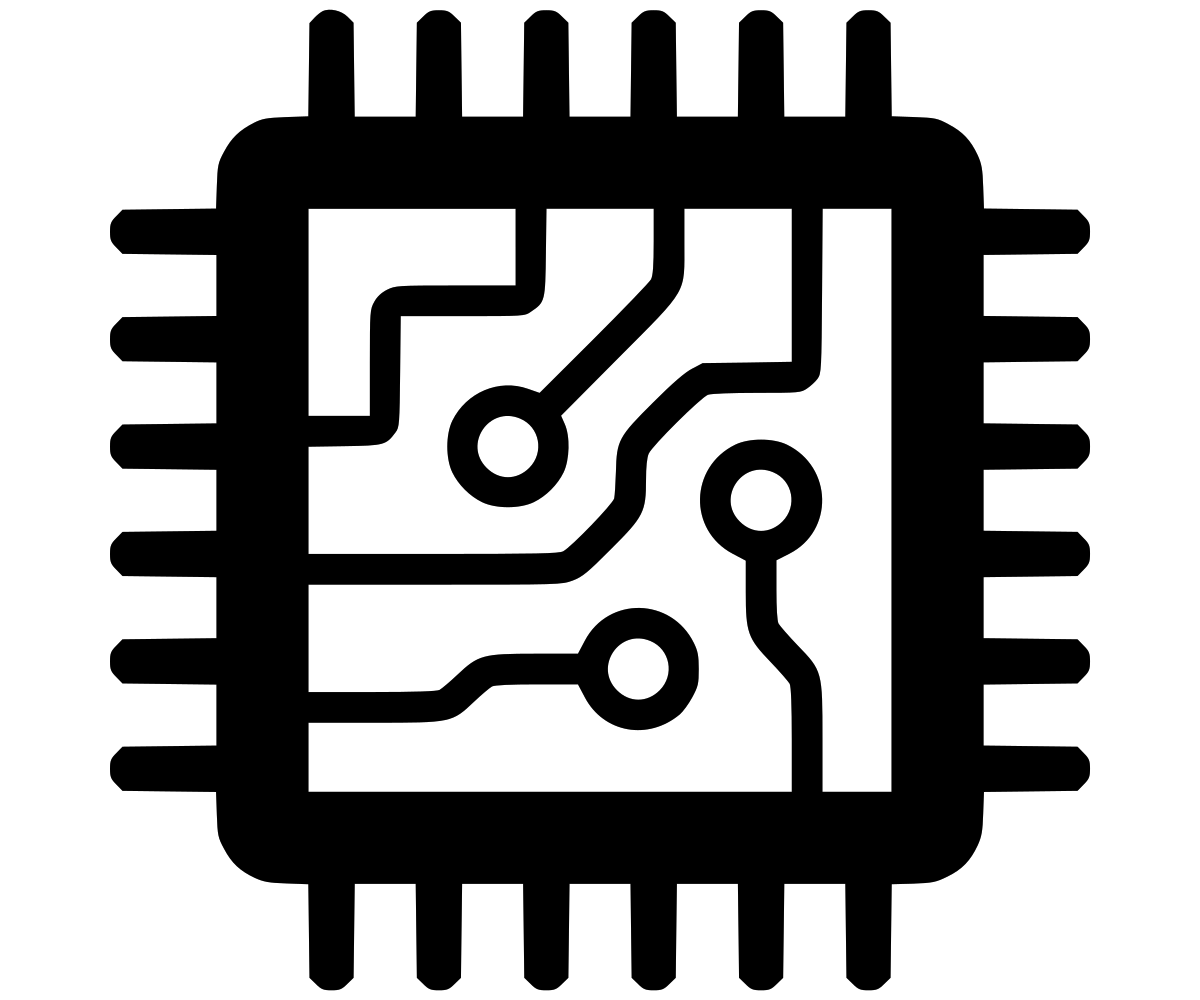
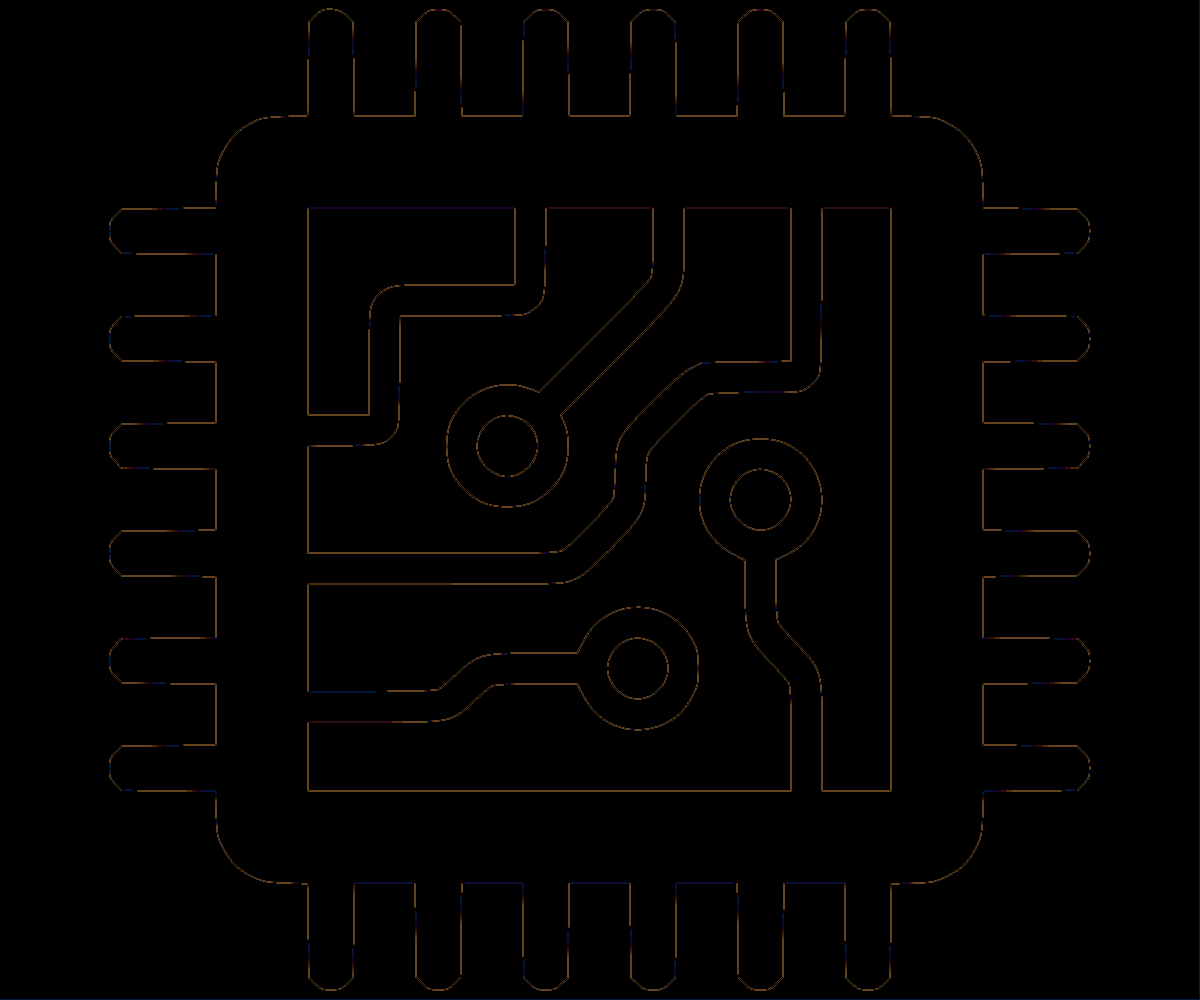
aupdtes

diff --git a/app/views/Index.js b/app/views/Index.js
@@ -12,20 +12,20 @@ const Index = () => (
 
           <div className="horizontalImageContainer">
               <div className="symbol">
-                <img src={`${BASE_PATH}/images/cp-chip.png`} alt="" />
+                <img src={`${BASE_PATH}/images/chip-outline.png`} alt="" />
               </div>
               <div className="symbol">
-                <img src={`${BASE_PATH}/images/apple-logo.png`} alt="" />
+                <img src={`${BASE_PATH}/images/apple-outline.png`} alt="" />
               </div>
               <div className="symbol">
-                <img src={`${BASE_PATH}/images/android-logo.png`} alt="" />
+                <img src={`${BASE_PATH}/images/android-outline.png`} alt="" />
               </div>
               <div className="symbol">
-                <img src={`${BASE_PATH}/images/bluetooth-logo.png`} alt="" />
+                <img src={`${BASE_PATH}/images/bluetooth-outline.png`} alt="" />
               </div>
           </div>
 
-          <p style={{textAlign:"center"}}>
+          <p style={{textAlign:"left"}}>
             <br></br><br></br>
             onceLabs is focused on building quality user experiences between 
             people and wireless products via mobile and embedded software development. 
@@ -37,40 +37,59 @@ const Index = () => (
         </div>
       </header>
       <header>
+        <div className="row">
+          <div className="leftImage">
+            <img src={`${BASE_PATH}/images/mobile-dev-ble.svg`} alt="" />
+          </div>
+          <div className="rightText">
           <div className="title">
-          <h3><Link to="/">Mobile Development</Link></h3>
-          <br></br>
-          <p>We offer full mobile application development for Android and iOS. We also offer product-specific 
-            Bluetooth Low Energy API development and handoff if you already have in-house mobile development 
-            resources but not the expertise required to integrate BLE. In the latter case, we build robust 
-            APIs for iOS and Android tailored to your specific use case.</p>
-            <div className="illustration">
-              <img src={`${BASE_PATH}/images/mobile-dev-ble.svg`} alt="" />
-            </div>
+            <h3><Link to="/">Mobile Development</Link></h3>
+            <br></br>
+            <p>We offer full mobile application development for Android and iOS. We also offer product-specific 
+                Bluetooth Low Energy API development and handoff if you already have in-house mobile development 
+                resources but not the expertise required to integrate BLE. In the latter case, we build robust 
+                APIs for iOS and Android tailored to your specific use case.</p>
+          </div>
+          </div>
         </div>
       </header>
       <header>
-        <div className="title">
-          <h3><Link to="/">Embedded Development</Link></h3>
-          <p>One of our greatest strengths is our extensive background in developing connectivity applications 
+        <div className="row">
+          <div className="leftText">
+          <div className="title">
+            <h3><Link to="/">Embedded Development</Link></h3>
+            <br></br>
+            <p>One of our greatest strengths is our extensive background in developing connectivity applications 
             for both mobile and embedded platforms in parallel, which gives us better design insight than companies 
             who focus on mobile exclusively.</p>
-            <div className="illustration">
-              <img src={`${BASE_PATH}/images/firmware.svg`} alt="" />
-            </div>
+          </div>
+          </div>
+          <div className="rightImage">
+            <img src={`${BASE_PATH}/images/firmware.svg`} alt="" />
+          </div>
         </div>
       </header>
       <header>
-        <div className="title">
-          <h3><Link to="/">Training</Link></h3>
-          <p>Our experts are available for on-site training to get your team up to speed on both mobile, 
-            and embedded development focused on Bluetooth Low Energy.</p>
-            <div className="illustration">
-              <img src={`${BASE_PATH}/images/teaching.svg`} alt="" />
-            </div>
+        <div className="row">
+          <div className="leftImage">
+            <img src={`${BASE_PATH}/images/teaching.svg`} alt="" />
+          </div>
+          <div className="rightText">
+          <div className="title">
+            <h3><Link to="/">Training</Link></h3>
+            <br></br>
+            <p>Our experts are available for on-site training to get your team up to speed on both mobile, 
+            and embedded development focused on Bluetooth Low Energy.
+            <br></br>
+            We have multiple training options available based on experience.
+            <br></br>
+            We have multiple training options available based on experience.
+            </p>
+          </div>
+          </div>
         </div>
       </header>
-      <p> Welcome to my website. Please feel free to read more <Link to="/about">about me</Link>,
+      <p> Welcome to our website. Please feel free to read more <Link to="/about">about us</Link>,
         or you can check out my {' '}
         <Link to="/resume">resume</Link>, {' '}
         <Link to="/projects">projects</Link>, {' '}

diff --git a/app/static/css/components/_post.scss b/app/static/css/components/_post.scss
@@ -31,6 +31,10 @@
 					font-size: 1.5em;
 				}
 
+				p {
+					//text-transform: unset;
+				}
+
 				> :last-child {
 					margin-bottom: 0;
 				}
@@ -88,7 +92,7 @@
 			.illustrationRight {
 				border-bottom: 0;
 				display: block;
-				margin: (_size(element-margin) * 0.25) (_size(element-margin) * 0.25) 0 (_size(element-margin) * 0.25);
+				margin: (_size(element-margin) * 0.25) (_size(element-margin) * 0.25) (_size(element-margin) * 0.25) (_size(element-margin) * 0.25);
 				overflow: hidden;
 				position: relative;
 	
@@ -101,6 +105,62 @@
 				}
 			}
 
+			.leftImage {
+				float: left;
+				width: 35%;
+				padding: 5px;
+				position: absolute;
+				top: 50%;
+				transform: translateY(-50%);
+				img {
+					margin: auto;
+					width: 100%;
+					border-radius: 0%;
+					display: inline-block;
+				}
+			  }
+
+			  .rightImage {
+				float: right;
+				width: 35%;
+				padding: 0px;
+				position: relative;
+				top: 50%;
+				transform: translateY(-50%);
+				img {
+					margin: auto;
+					width: 100%;
+					border-radius: 0%;
+					display: inline-block;
+				}
+			  }
+
+			.leftText {
+				float: left;
+				width: 65%;
+				padding: 0px;
+			}
+
+			.rightText {
+				float: right;
+				width: 65%;
+				padding: 0px;
+			}
+
+			.column {
+				float: left;
+				width: 35%;
+				padding: 0px;
+			}
+			  
+			/* Clear floats after image containers */
+			.row::after {
+				content: "";
+				clear: both;
+				display: table;
+			}
+
+
 			.titleMain {
 				@include vendor('flex-grow', '1');
 				-ms-flex: 1;
@@ -109,10 +169,17 @@
 				h2 {
 					color: _palette(fg-bold);
 					text-align: left;
-					font-weight: _font(weight-heading);
-					font-size: 2.0em;
+					font-weight: _font(weight-semibold);
+					font-size: 2.7em;
 					font-family: _font(family-heading);
 					text-transform: unset;
+					letter-spacing: 0.0em;
+					line-height: 1.1em;
+				}
+
+				p {
+					//font-size: 1.0em;
+					//text-transform: unset;
 				}
 
 				> :last-child {

diff --git a/app/static/css/libs/_vars.scss b/app/static/css/libs/_vars.scss
@@ -24,6 +24,7 @@
 		family-fixed:				('Courier New', monospace),
 		family-heading:				('HelveticaNeue-Light', monospace),
 		weight:						400,
+		weight-semibold:			500,
 		weight-bold:				700,
 		weight-heading:				400,
 		weight-heading-bold:		800,
@@ -36,7 +37,7 @@
 		bg:							#f4f4f4,//Body behind text
 		bg-alt:						#f4f4f4,
 		fg:							#000000,//Main text
-		fg-bold:					#3c3b3b,
+		fg-bold:					#616060,
 		fg-light:					#aaaaaa,
 		ol-blue:					rgba(26, 154, 214, 0.99),//primary border
 		border:						rgba(160, 160, 160, 0.3),//primary border
